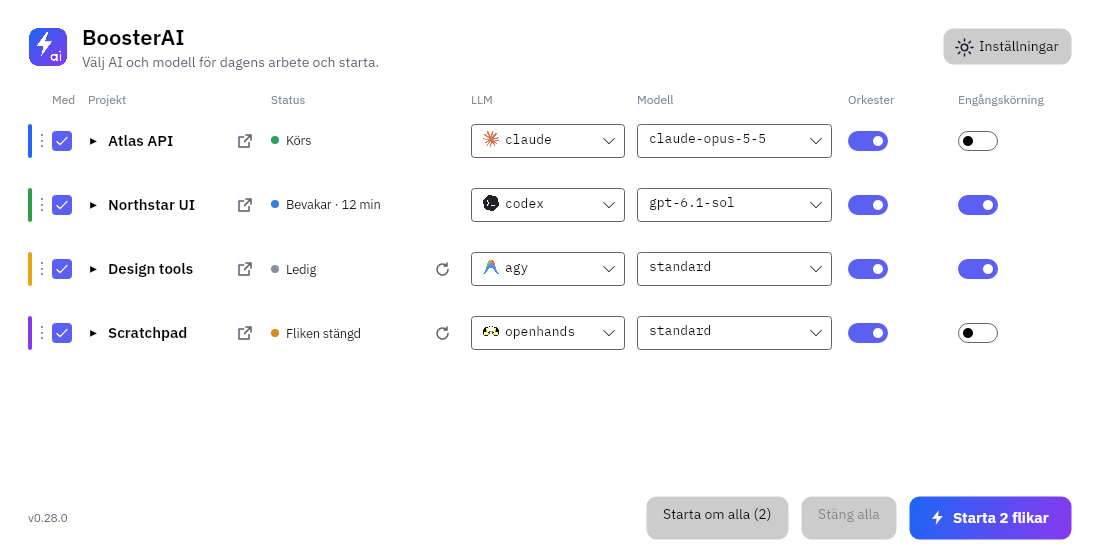
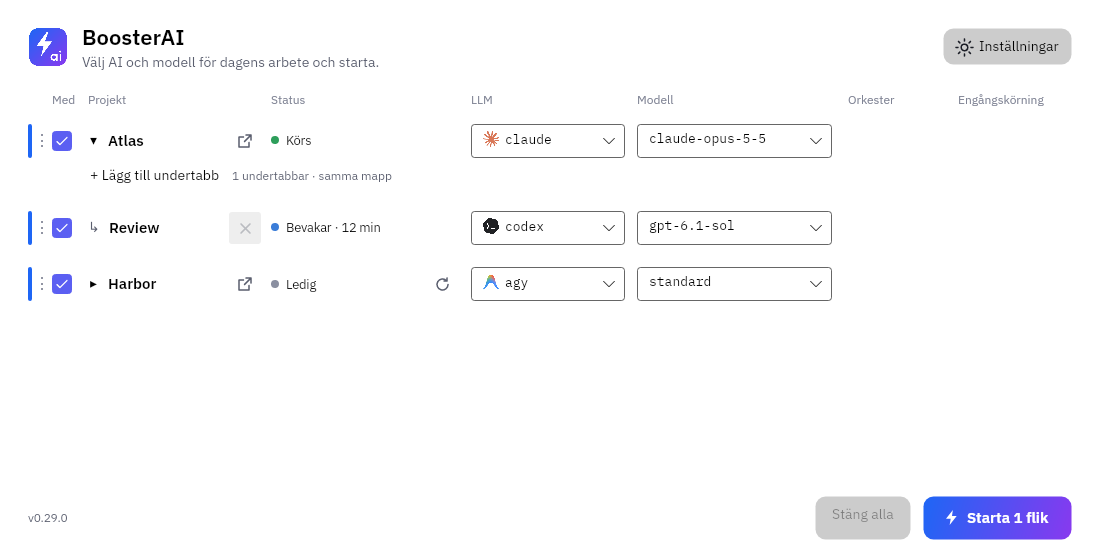
Treat No alias as complete setup and remove recurring full-auto offer (#110)

diff --git a/src/BoosterAI/SetupViewModel.cs b/src/BoosterAI/SetupViewModel.cs
@@ -3,7 +3,7 @@ using Avalonia.Threading;
 
 namespace BoosterAI;
 
-/// <summary>One CLI button in the setup bars: "Installera codex" or the CLI an alias is offered for.</summary>
+/// <summary>One CLI installation button in the setup bar.</summary>
 public sealed record CliOffer(string Cli, string Label, string Tip);
 
 /// <summary>One supported AI CLI listed in the Settings agents hub (#91).</summary>
@@ -82,14 +82,13 @@ public sealed class AgentInfo : Observable
 
 /// <summary>
 /// The quiet setup bars in the main window (#74): WSL missing (Windows), CLIs missing in the tabs' shell with an
-/// install button each, and the full-auto alias offer; plus the summary that Settings shows after a check.
+/// install button each, plus the summary that Settings shows after a check.
 /// </summary>
 public sealed class SetupViewModel : Observable
 {
     private SetupStatus _status = SetupStatus.Empty;
     private bool _checking, _checked, _missingDismissed;
     private IReadOnlyList<string> _rowLlms = [];
-    private readonly HashSet<string> _dismissedAliases = [];
 
     public SetupStatus Status => _status;
     public bool IsChecking { get => _checking; set { if (Set(ref _checking, value)) { Raise(nameof(Summary)); Raise(nameof(CheckNotice)); } } }
@@ -138,11 +137,6 @@ public sealed class SetupViewModel : Observable
         }
     }
 
-    public IReadOnlyList<string> Aliases { get; private set; } = [];
-    public bool AliasVisible => Aliases.Count > 0 && !MissingVisible && !WslVisible;
-    public string AliasText => Loc.Format("setup.alias.offer", string.Join(", ", Aliases));
-    public string AliasTip => string.Join("\n", Aliases.Select(Prerequisites.AliasLine));
-
     /// <summary>What the last check found, for Settings.</summary>
     public string Summary
     {
@@ -181,15 +175,12 @@ public sealed class SetupViewModel : Observable
 
     public void DismissMissing() { _missingDismissed = true; Refresh(); }
 
-    public void DismissAliases() { _dismissedAliases.UnionWith(Aliases); Refresh(); }
-
     private void Refresh()
     {
         var selectedCli = SelectedAgent?.Cli;
         var sections = Agents.ToDictionary(a => a.Cli, a => a.Section);
         Missing = Prerequisites.MissingToOffer(_status, _rowLlms)
             .Select(c => new CliOffer(c, Loc.Format("setup.cli.install", c), Loc.Format("setup.cli.install.tip", Prerequisites.InstallScript(c)))).ToList();
-        Aliases = Prerequisites.AliasesToOffer(_status, _dismissedAliases);
         Agents = Prerequisites.Clis.Select(c =>
         {
             var status = _status.Cli(c) ?? new CliStatus(c, "none", null);
@@ -198,7 +189,7 @@ public sealed class SetupViewModel : Observable
         Raise(nameof(Agents));
         SelectedAgent = Agents.FirstOrDefault(a => a.Cli == selectedCli);
         foreach (var name in new[] { nameof(Status), nameof(WslVisible), nameof(CanInstallWsl), nameof(WslText), nameof(Missing), nameof(MissingVisible),
-                     nameof(MissingText), nameof(Aliases), nameof(AliasVisible), nameof(AliasText), nameof(AliasTip), nameof(Summary), nameof(CheckNotice) })
+                     nameof(MissingText), nameof(Summary), nameof(CheckNotice) })
             Raise(name);
     }
 }
@@ -305,27 +296,6 @@ public sealed partial class MainViewModel
     /// <summary>The ~/.bashrc of the tabs' Linux as this process can read it; null until the WSL home is known.</summary>
     private string? BashrcFile => PathMapping.ToLocalPath("~/.bashrc", _cfg.WslDistro, _wslHome);
 
-    /// <summary>Adds the offered full-auto aliases to BoosterAI's block in ~/.bashrc (after the user confirmed).</summary>
-    public void AddAliases()
-    {
-        if (BashrcFile is not { } path) { ShowStatus(Loc.Get("status.wslHomeMissing"), error: true); return; }
-        var clis = Setup.Aliases.ToList();
-        try
-        {
-            var current = File.Exists(path) ? File.ReadAllText(path) : null;
-            var updated = Prerequisites.AddAliases(current, clis);
-            // Written in place, so the file keeps its permissions.
-            if (updated != (current ?? "")) File.WriteAllText(path, updated);
-            ShowStatus(Loc.Format("status.aliasesAdded", "~/.bashrc", string.Join(", ", clis)), error: false);
-            Setup.DismissAliases();
-            CheckSetup();
-        }
-        catch (Exception e) when (e is IOException or UnauthorizedAccessException)
-        {
-            ShowStatus(Loc.Format("status.aliasesFailed", path, e.Message), error: true);
-        }
-    }
-
     /// <summary>Called only by the Apply action after its required confirmation; never changes a running CLI.</summary>
     public bool ApplyAgentMode(AgentInfo agent, bool yoloConfirmed)
     {
@@ -372,7 +342,7 @@ public sealed partial class MainViewModel
         Setup.RowsChanged(["claude", "codex", "agy"]);
     }
 
-    /// <summary>For --screenshot --fake-alias: every CLI installed, claude and codex without an alias.</summary>
+    /// <summary>For --screenshot --fake-setup alias: installed CLIs without permission aliases (no setup offer).</summary>
     public void ShowSampleAlias()
     {
         Setup.Apply(new SetupStatus(WslState.Ok, ["Ubuntu"],

diff --git a/docs/verification/110/probe/Program.cs b/docs/verification/110/probe/Program.cs
@@ -1,0 +1,29 @@
+using Avalonia;
+using Avalonia.Controls;
+using Avalonia.Headless;
+using Avalonia.VisualTree;
+using Avalonia.Threading;
+using BoosterAI;
+using System.Text.Json;
+var file = Path.Combine(Path.GetTempPath(), "booster110-" + Guid.NewGuid() + ".json");
+ConfigStore.UseFile(file);
+AppBuilder.Configure<App>().UseSkia().UseHeadless(new AvaloniaHeadlessPlatformOptions { UseHeadlessDrawing = false }).SetupWithoutStarting();
+var results = new List<object>();
+foreach (var lang in new[] { "sv", "en" })
+{
+ Loc.Use(lang);
+ for (var instance = 0; instance < 2; instance++)
+ {
+  var vm = new MainViewModel(new AppConfig { CheckForUpdates = false });
+  vm.ShowSampleAlias();
+  var main = new MainWindow(vm); main.Show(); Dispatcher.UIThread.RunJobs();
+  var offered = main.GetVisualDescendants().OfType<Button>().Any(b => Equals(b.Content, Loc.Get("setup.alias.add")));
+  if (offered || vm.Setup.MissingVisible || vm.Setup.WslVisible) throw new Exception("Optional aliases shown as unfinished setup");
+  var plain = vm.Setup.Agents.Where(a => a.Cli is "claude" or "codex").ToArray();
+  if (plain.Length != 2 || plain.Any(a => a.CurrentMode != AgentMode.Standard || !a.CanSelectMode)) throw new Exception("Agent settings unavailable");
+  results.Add(new { lang, instance, aliasOffer = offered, installationComplete = !vm.Setup.MissingVisible, explicitAgentChoices = plain.Length });
+  main.Close(); Dispatcher.UIThread.RunJobs();
+ }
+}
+File.Delete(file);
+Console.WriteLine(JsonSerializer.Serialize(new { synthetic = true, results }, new JsonSerializerOptions { WriteIndented = true }));

diff --git a/tests/BoosterAI.Tests/InterpreterTests.cs b/tests/BoosterAI.Tests/InterpreterTests.cs
@@ -15,7 +15,7 @@ public class InterpreterTests
         Assert.Equal("interpreter", row.Llm);
         Assert.Contains("interpreter", row.Llms);
         Assert.Equal("ollama/qwen2.5-coder:7b", row.ToConfig(forLaunch: true).Model);
-        Assert.Empty(vm.Setup.Aliases); // The two CLI generations have incompatible permission flags.
+        Assert.DoesNotContain(vm.Setup.Missing, offer => offer.Cli == "interpreter");
         Assert.False(Launcher.CanContinue(row.ToConfig(forLaunch: true)));
         Assert.False(Launcher.CanSaveAndClose(row.ToConfig(forLaunch: true)));
         Assert.False(Launcher.CanResume(row.ToConfig(forLaunch: true), row.ToConfig(forLaunch: true)));

diff --git a/src/BoosterAI/MainWindow.axaml.cs b/src/BoosterAI/MainWindow.axaml.cs
@@ -267,13 +267,6 @@ public partial class MainWindow : Window
         if (await ConfirmSetupWindow.Wsl().ShowDialog<bool>(this)) _vm.InstallWsl();
     }
 
-    private async void OnAddAliases(object? sender, RoutedEventArgs e)
-    {
-        if (await ConfirmSetupWindow.Aliases(_vm.Setup.Aliases).ShowDialog<bool>(this)) _vm.AddAliases();
-    }
-
-    private void OnDismissAliases(object? sender, RoutedEventArgs e) => _vm.Setup.DismissAliases();
-
     private void OnContinue(object? sender, RoutedEventArgs e)
     {
         if (!_vm.IsClosingAll && (sender as Control)?.DataContext is TabViewModel tab) _vm.Restart(tab, resume: true);

diff --git a/docs/DEVELOPMENT.md b/docs/DEVELOPMENT.md
@@ -42,7 +42,7 @@ To add a string: add the same key to both `src/BoosterAI/Resources/Strings.sv.js
 
 ## Screenshots
 
-`BoosterAI --screenshot <file.png> [--window main|settings|install|import|restart|close|alias|wsl|wsl-shutdown|agent-yolo] [--tab projects|general|optimization|appearance|agents] [--theme light|dark] --config <neutral.json>` renders a window headless: nothing is shown and focus does not change. The title bar is not rendered. Use a config with invented project names, never personal ones; `Language` in it picks Swedish or English. The sample status column shows automatically. A neutral config can include `SubTabs` under a project and `Expanded: true` to render its expanded group; child directories resolve to that project folder. `docs/screenshot.png` and `docs/settings.png` in the README are made this way. `--tab <tab>` selects the tab when rendering `--window settings` (projects by default; `--fake-setup` defaults to general). The optimization tab opens its RAM overview; `--section usage|limit|environment` selects its left-hand page. `--width 640 --height 400` renders the minimum Settings size. `--fake-memory-state empty|partial|stale|legacy|outside` supplies neutral edge-case data on optimization pages. The optimization tab uses neutral sample hardware (64 GB) and 30 minutes of sample WSL memory history (8.2–17.6 GB, average 11.7 GB, current 12.4 GB); no live process query is made. `--fake-memory-cap 48` shows a selected cap outside the suggested 24–32 GB range. `--window import` shows the Find projects dialog with a fixed sample list (no disk access). `--fake-update 0.3.0` adds the update bar as an installed copy shows it, `--fake-update manual:0.3.0` as a copy that can only link to the releases page (screenshots only, no network); both show a sample one-line summary with *Show more*, `plain:0.3.0` leaves it out as for an older release. `--fake-status "text"` / `--fake-status "error:text"` sets the status line at the bottom to a normal / error message (screenshots only). `--fake-orchestra-idle` shows a neutral idle Claude orchestra with its in-session reload icon (no live session or process); `--fake-changed` shows the first AI tab running a turn with another model than the chosen one (the restart button with its "restart with" tip); `--window restart` shows the restart confirmation for it. `--fake-restartable N` ends the first N AI sample tabs so the per-tab restart buttons and the "Restart all" button beside Start (shown from two restartable tabs) appear. `--window close` shows the save-and-close progress dialog (sample only, no process control). `--dry-run-close` prints the save/close commands with example process identities without running them. `--fake-output` opens the first running sample tab's status popup with a sample claude screen (replayed through `TerminalText`), `--fake-output 1` the Watching Run once tab's with sample formatter lines; the popup is drawn onto the window frame below the status, since a headless popup is its own surface. `--fake-setup` shows the setup bar with codex and agy missing (and npm), `--fake-setup wsl` the missing-WSL bar and `--fake-setup alias` the full-auto alias offer (samples only, no shell is run; Settings then shows the sample check result); `--window alias` and `--window wsl` show their confirmation dialogs. Screenshots and tests never run the real setup check: only the real app starts it.
+`BoosterAI --screenshot <file.png> [--window main|settings|install|import|restart|close|alias|wsl|wsl-shutdown|agent-yolo] [--tab projects|general|optimization|appearance|agents] [--theme light|dark] --config <neutral.json>` renders a window headless: nothing is shown and focus does not change. The title bar is not rendered. Use a config with invented project names, never personal ones; `Language` in it picks Swedish or English. The sample status column shows automatically. A neutral config can include `SubTabs` under a project and `Expanded: true` to render its expanded group; child directories resolve to that project folder. `docs/screenshot.png` and `docs/settings.png` in the README are made this way. `--tab <tab>` selects the tab when rendering `--window settings` (projects by default; `--fake-setup` defaults to general). The optimization tab opens its RAM overview; `--section usage|limit|environment` selects its left-hand page. `--width 640 --height 400` renders the minimum Settings size. `--fake-memory-state empty|partial|stale|legacy|outside` supplies neutral edge-case data on optimization pages. The optimization tab uses neutral sample hardware (64 GB) and 30 minutes of sample WSL memory history (8.2–17.6 GB, average 11.7 GB, current 12.4 GB); no live process query is made. `--fake-memory-cap 48` shows a selected cap outside the suggested 24–32 GB range. `--window import` shows the Find projects dialog with a fixed sample list (no disk access). `--fake-update 0.3.0` adds the update bar as an installed copy shows it, `--fake-update manual:0.3.0` as a copy that can only link to the releases page (screenshots only, no network); both show a sample one-line summary with *Show more*, `plain:0.3.0` leaves it out as for an older release. `--fake-status "text"` / `--fake-status "error:text"` sets the status line at the bottom to a normal / error message (screenshots only). `--fake-orchestra-idle` shows a neutral idle Claude orchestra with its in-session reload icon (no live session or process); `--fake-changed` shows the first AI tab running a turn with another model than the chosen one (the restart button with its "restart with" tip); `--window restart` shows the restart confirmation for it. `--fake-restartable N` ends the first N AI sample tabs so the per-tab restart buttons and the "Restart all" button beside Start (shown from two restartable tabs) appear. `--window close` shows the save-and-close progress dialog (sample only, no process control). `--dry-run-close` prints the save/close commands with example process identities without running them. `--fake-output` opens the first running sample tab's status popup with a sample claude screen (replayed through `TerminalText`), `--fake-output 1` the Watching Run once tab's with sample formatter lines; the popup is drawn onto the window frame below the status, since a headless popup is its own surface. `--fake-setup` shows the setup bar with codex and agy missing (and npm), `--fake-setup wsl` the missing-WSL bar and `--fake-setup alias` installed CLIs without permission aliases (no setup offer) (samples only, no shell is run; Settings then shows the sample check result); `--window alias` and `--window wsl` show their confirmation dialogs. Screenshots and tests never run the real setup check: only the real app starts it.
 
 The update tests (`tests/BoosterAI.Tests/UpdateTests.cs`) run the real bash helper (Linux) or PowerShell helper (Windows) against a fake install in the temp folder. `BOOSTERAI_UPDATE_E2E=<scratch dir> dotnet test tests/BoosterAI.Tests --filter EndToEndLinuxUpdateFromGitHub` also downloads the latest Linux release (~40 MB), verifies it, swaps it into `<scratch dir>/fake-install` and runs its `--dry-run`; `~/.local/bin` is never touched.
 

diff --git a/docs/DETAILS.md b/docs/DETAILS.md
@@ -143,18 +143,12 @@ CLI behavior was checked against the [current command reference](https://www.ope
 
 After an install BoosterAI checks again every 15 seconds (for up to 20 minutes) until the CLI is found, then says so in the status line and removes the button. New tabs start a new login shell, so they find the CLI without restarting BoosterAI; *CLI not found* is a state of a tab that already ran, and its restart button runs the installed CLI.
 
-**Full-auto aliases.** For each installed CLI that the shell has no alias or function for, a bar offers **Add aliases …** (and *Not now*, which hides it until BoosterAI restarts). A confirmation dialog warns that with the alias the AI runs commands and changes, creates and deletes files without asking, in every tab and terminal, and shows the exact lines. Confirming appends them to a marked block at the end of `~/.bashrc` (the WSL home on Windows):
-
-```sh
-# >>> BoosterAI full-auto aliases >>>
-# Added by BoosterAI: these CLIs run commands and edit files without asking. Delete this block to undo.
-alias claude='claude --dangerously-skip-permissions'
-alias codex='codex --dangerously-bypass-approvals-and-sandbox'
-alias agy='agy --dangerously-skip-permissions'
-# <<< BoosterAI full-auto aliases <<<
-```
-
-Only the lines for the offered CLIs are written; a later CLI joins the same block. An alias or function the user already has (detected in the shell, and checked again in the file text) is never overwritten or duplicated, so an alias such as `alias claude='claude --permission-mode auto'` stays as it is and no offer is made for it. Delete the block to undo. The aliases apply to new tabs, including Run once (see [Run once](#run-once-non-interactive)). Tabs read `~/.bashrc` through the login shell's `~/.profile`, as Ubuntu's default does; a profile that does not source it would not see the aliases, and BoosterAI offers them again after a restart (without writing them twice).
+**Permission aliases are optional.** An installed CLI without an alias is a complete
+basic installation. The main window does not offer automatic full-auto aliases or
+ask the user to decline them again on every start. Choose an agent's permission
+preset explicitly under **Settings → AI agents → Permission alias**; YOLO still
+requires confirmation. Existing aliases and CLI settings are not changed by setup
+guidance. Older BoosterAI alias blocks remain recognized by the agent editor.
 
 `--dry-run` prints the check, the WSL install command, each CLI's install script (also as the `wt.exe` arguments of its tab) and the alias block.
 

diff --git a/docs/verification/110/README.md b/docs/verification/110/README.md
@@ -1,0 +1,23 @@
+# Issue 110 — No alias is a complete basic installation
+
+The main window no longer offers automatic full-auto aliases. Its old offer,
+dismissal state and event handlers are removed, including the unused view-model
+write path for that offer. Permission choices remain explicit in AI agents, with
+YOLO confirmation. Existing CLI/shell settings are unchanged by onboarding.
+
+No persisted decline is needed because the removed offer never reappears. The
+`--fake-setup alias` fixture now means installed CLIs without aliases, showing the
+complete basic setup rather than a permission warning. The old alias-block format
+and low-level helpers remain recognized for existing installations.
+
+- Release: 0 warnings/errors. Full WSL suite: 726 passed, 0 failed/skipped.
+- [Headless interaction probe](probe/Program.cs): Swedish and English, two fresh
+  app/view-model instances each. No offer button or missing-installation state;
+  Claude/Codex remain on No alias with explicit agent choices available.
+- [Results](interaction.json) are synthetic; no shell, model, alias or CLI-setting
+  writes occur. Only a unique temporary app config is used.
+- Inspected [Swedish normal](no-alias-sv-normal.png), [Swedish minimum](no-alias-sv-minimum.png),
+  [English dark normal](no-alias-en-normal.png) and [English dark minimum](no-alias-en-minimum.png).
+  Main README screenshots refreshed; minimum content scrolls.
+
+Windows verification and normal background installation follow integration.
